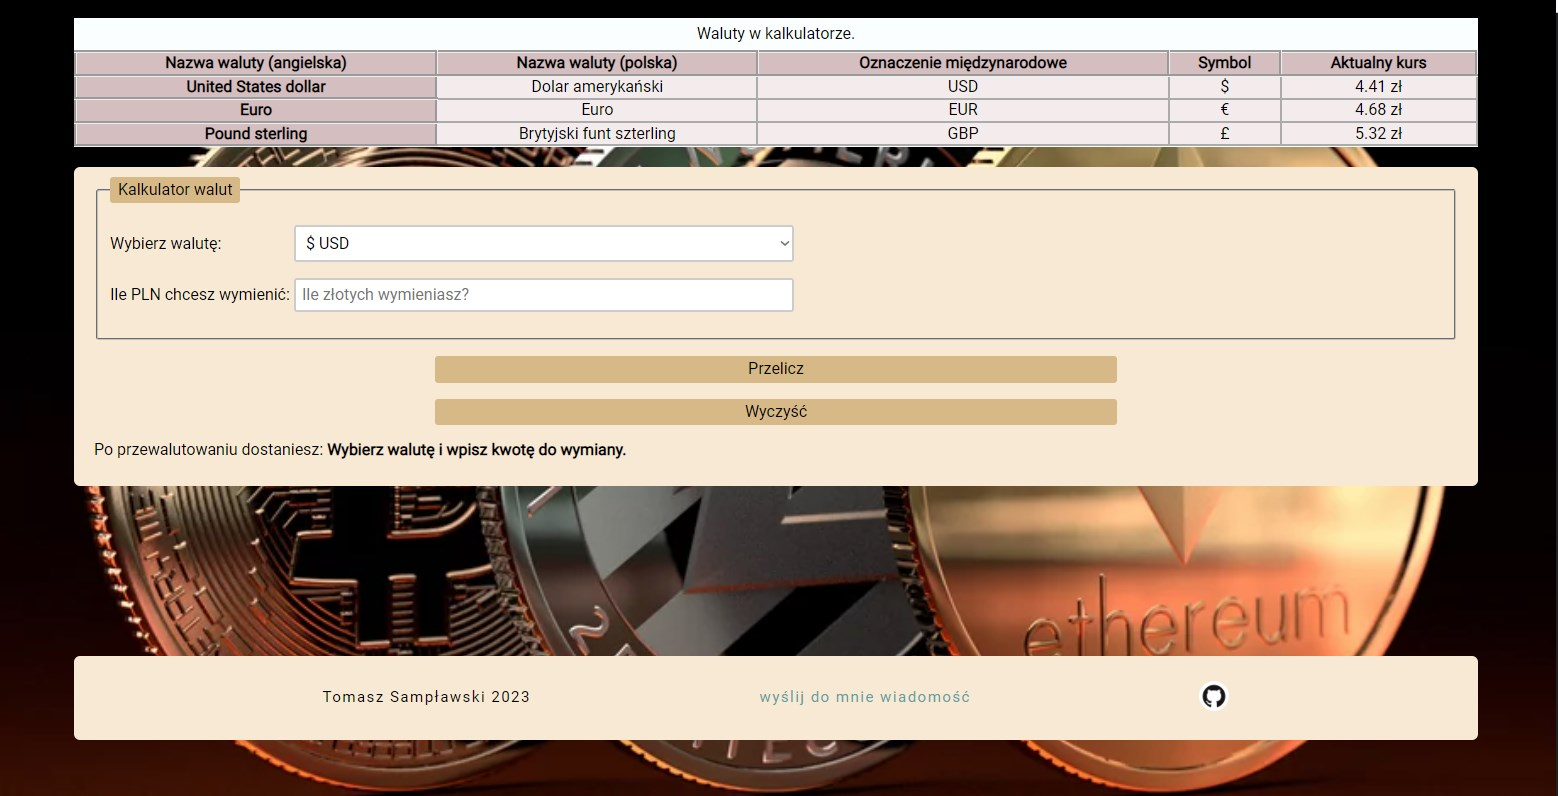
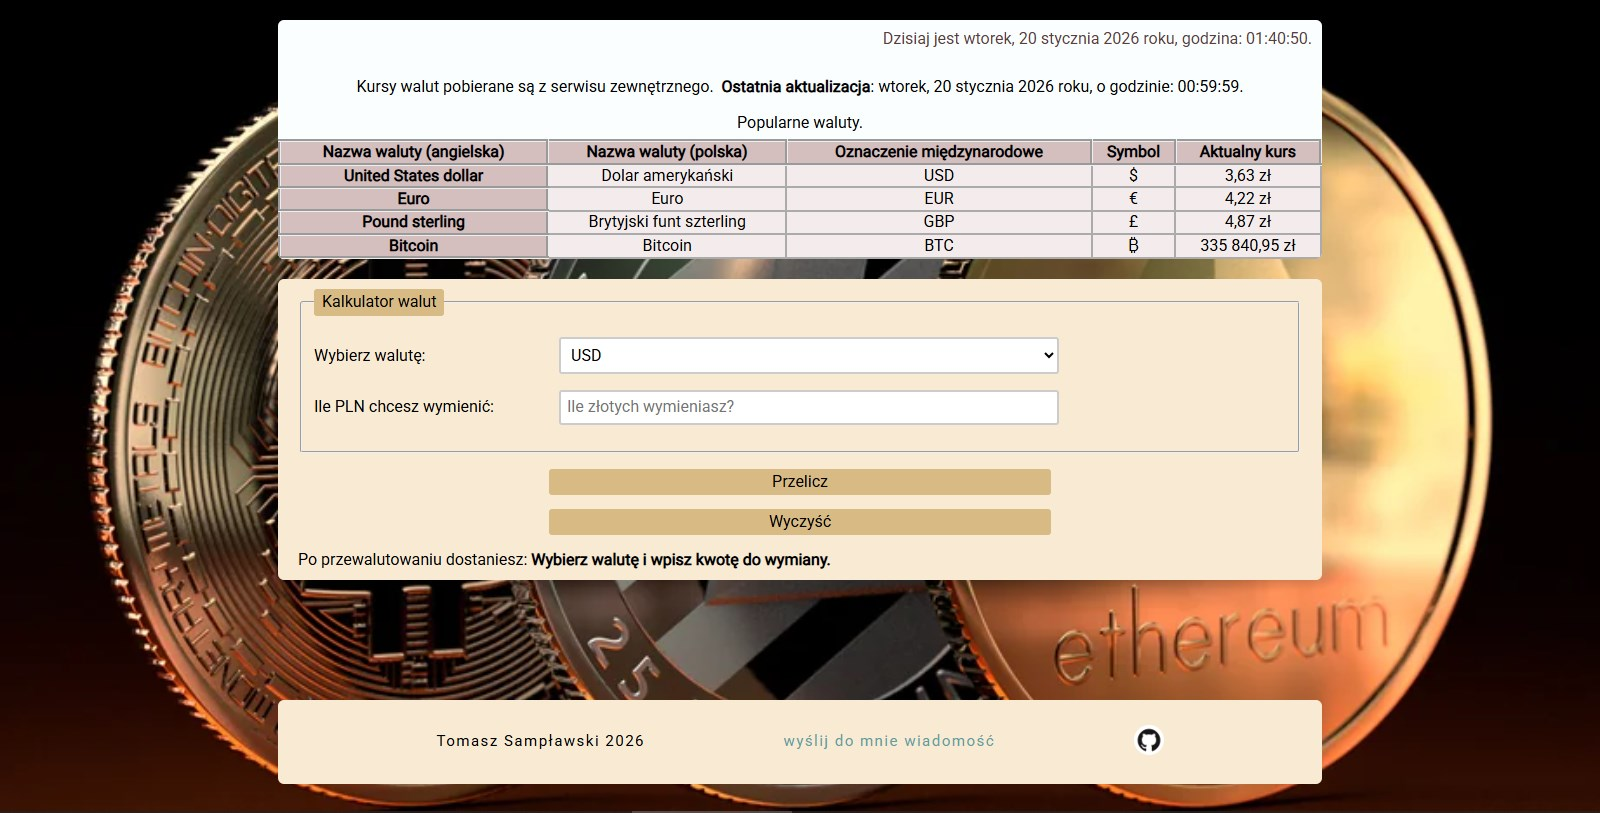
docs: update README with smart cache info and a new screenshot

diff --git a/README.md b/README.md
@@ -4,22 +4,24 @@ A simple currency conversion application built with React.js. The application al
 You can try it under this [link](https://samplawski.github.io/currency-converter-react/).
 
 
-<img src="./public/screenshot.jpg" width="45%" alt="currency converter screenshot">
+<img src="./public/screenshot.jpg" width="95%" alt="currency converter screenshot">
 
 ## Table of Contents
 
 1. Short description
 2. Features
 3. Technologies Used
-4. Setup
-5. How to use
-6. Status and Contributing
-7. Contact
+4. Smart Caching Logic (Technical Highlight)
+5. Key Project Structure Improvements
+6. Setup
+7. How to use
+8. Status and Contributing
+9. Contact
 
 ## 1. Short Description
 This project is a complete refactor of a vanilla JavaScript application into a modern React environment. The application allows users to convert PLN (Polish Złoty) into various currencies (USD, EUR, GBP, BTC). 
 
-The main focus of this refactor was to implement **Clean Code** principles, separation of concerns, and a professional styling architecture using CSS-in-JS.
+The main focus of this refactor was to implement a professional styling architecture using Styled-components and advanced state management through Custom Hooks.
 
 ## 2. Features
 - Real-time Data: Fetches the latest exchange rates from a server using Axios.
@@ -35,7 +37,7 @@ The main focus of this refactor was to implement **Clean Code** principles, sepa
 ## 3. Technologies Used
 - **React 19** (Functional components, Hooks: `useState`, `useEffect`, Custom Hooks )
 - **Styled Components** (CSS-in-JS for modular and dynamic styling, Theming)
-- **Axios (API requests)**
+- **Axios** (Handled with asynchronous logic and error boundaries)
 - **JavaScript (ES6+)**
 - **Intl API** (For professional date and number formatting)
 - **HTML5** (Semantic structure)
@@ -47,14 +49,23 @@ The following external libraries are used in this project:
 - Google Fonts - for the "Roboto" font used throughout the page
 - gh-pages - for simplified deployment to GitHub Pages.
 
-## 4. Key Project Structure Improvements
+## 4. Smart Caching Logic (Technical Highlight)
+To optimize API usage and respect the server's update cycle (updated at 23:59:59Z, which is 00:59:59 CET), the app implements an intelligent caching strategy in localStorage:
+
+- The Midnight Gap: The app recognizes that between 00:00 and 01:00 AM CET, the server has not yet refreshed its data.
+
+- Validation: It prevents redundant API calls during this hour by trusting the existing cache.
+
+- Daily Sync: After 01:00 AM, the app performs exactly one API request to fetch the new day's rates and then resumes using the cache for the remainder of the 24-hour cycle.
+
+## 5. Key Project Structure Improvements
 During the refactor, the following advanced React patterns were implemented:
 - **ThemeProvider:** Centralized color palette and breakpoints in `theme.js`.
 - **GlobalStyle:** Removed `index.css` in favor of `createGlobalStyle`.
 - **Logic Extraction:** Separated business logic (conversion, rate fetching) from the presentation layer (JSX).
 - **Atomic Components:** The app is divided into small, specialized components like `Table`, `Converter`, `Clock`, and `Footer`.
 
-## 5. Setup
+## 6. Setup
 
 To run this application locally, follow these steps:
 
@@ -65,7 +76,7 @@ To run this application locally, follow these steps:
 - The application will open automatically in your browser (usually at http://localhost:3000/currency-converter-react).
 
 
-## 6. How to use
+## 7. How to use
 1. Visit the converter page.
 2. Select the currency you want to convert to from the dropdown list.
 3. Enter the amount of PLN you want to exchange in the input field.
@@ -73,10 +84,10 @@ To run this application locally, follow these steps:
 5. The "Wyczyść" button resets the form
 6. View the current exchange rates in the table above the converter.
 
-## 7. Status and Contributing
+## 8. Status and Contributing
 The project was created by Tomasz Sampławski. The core styling and logic refactor is complete. Future updates may include fetching real-time data from an external API.
 
 Contributions, issues, and feature requests are welcome!
 
-## 8. Contact
+## 9. Contact
 If you want to contact me you can reach me at tsamplawski@gmail.com.
